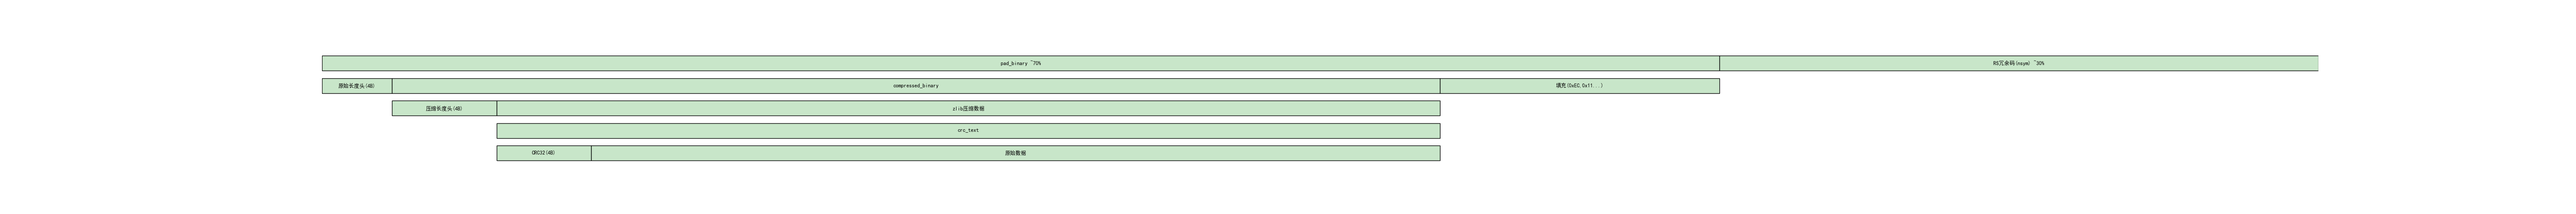
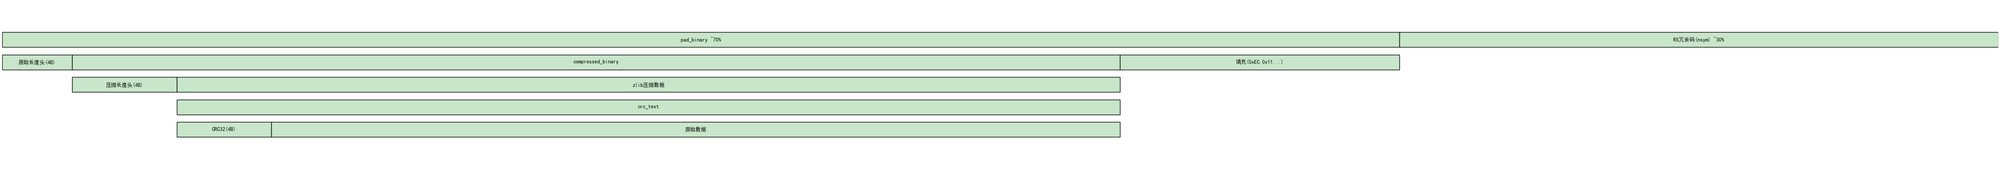
[Feat] refine experiment file

Changed region(s): [[0.0, 0.1823, 1.0, 0.8203]]

diff --git a/experiments/experiment_imgcodecs.py b/experiments/experiment_imgcodecs.py
@@ -133,11 +133,57 @@ def redundancy_heatmap(codec: BaseCodec, text: str):
     plt.tight_layout()
     plt.show()
 
+# 递归绘制分段
+def draw_segments_ratio(ax, segments, y=0, x_start=0, x_end=1):
+    total_ratio = sum(r for _, r, _ in segments)
+    cur_x = x_start
+    for label, ratio, subseg in segments:
+        width = (x_end - x_start) * (ratio / total_ratio)
+        ax.add_patch(plt.Rectangle((cur_x, y), width, 0.1,
+                                   facecolor="#c8e6c9", edgecolor="black"))
+        ax.text(cur_x + width/2, y + 0.05, label, ha="center", va="center", fontsize=9)
+        if subseg:
+            draw_segments_ratio(ax, subseg, y - 0.15, cur_x, cur_x + width)
+        cur_x += width
+
+def plot_segments_ratio():
+    # 按比例绘制（pad_binary : rs冗余 = 70% : 30%）
+    segments_ratio = [
+        ("pad_binary ~70%", 0.7, [
+            ("原始长度头(4B)", 0.05, None),
+            ("compressed_binary", 0.75, [
+                ("压缩长度头(4B)", 0.1, None),
+                ("zlib压缩数据", 0.9, [
+                    ("crc_text", 1.0, [
+                        ("CRC32(4B)", 0.1, None),
+                        ("原始数据", 0.9, None)
+                    ])
+                ])
+            ]),
+            ("填充(0xEC,0x11...)", 0.2, None)
+        ]),
+        ("RS冗余码(nsym) ~30%", 0.3, None)
+    ]
+    # 设置字体为SimHei（黑体）
+    plt.rcParams['font.sans-serif'] = ['SimHei']
+    # 解决坐标轴负号显示问题
+    plt.rcParams['axes.unicode_minus'] = False
+
+    fig, ax = plt.subplots(figsize=(60, 5))
+    draw_segments_ratio(ax, segments_ratio, y=0, x_start=0, x_end=1)
+    ax.set_xlim(0, 1)
+    ax.set_ylim(-0.8, 0.3)
+    ax.axis("off")
+    # plt.show()
+
+    # 保存图片
+    plt.savefig("img/rs_binary_segments_ratio.png", bbox_inches="tight", pad_inches=0.05)
 
 if __name__ == "__main__":
     codec = CODEC_REGISTRY["morandi_rs"] # morandi_rs rgba_redundancy
     codec.show_progress = False
     text = "Hello World! " * int(1e3)  # 足够长的测试文本(1e3, 4e5)
 
-    redundancy_heatmap(codec, text)
+    # redundancy_heatmap(codec, text)
+    plot_segments_ratio()
     

diff --git a/experiments/experiment_NumberUtils.py b/experiments/experiment_NumberUtils.py
@@ -1,0 +1,14 @@
+from celestialvault.tools.NumberUtils import choose_square_container, redundancy_from_container
+from celestialvault.tools.SampleGenerate import rand_strict_increasing_ints
+
+
+def evaulate_choose_square_container():
+    for n in rand_strict_increasing_ints(100, start=5, max_step=20):
+        a, b, c  = choose_square_container(n, 0.7)
+        test_c = redundancy_from_container(a*a, 0.7)
+        print(f"n={n} -> 容器{a}, {b}, {c}, 利用率={n/a**2:.2%}")
+        assert c == test_c
+
+
+if __name__ == '__main__':
+    evaulate_choose_square_container()

diff --git a/src/celestialvault/instances/inst_quiz.py b/src/celestialvault/instances/inst_quiz.py
@@ -7,6 +7,7 @@ from IPython.display import clear_output, display
 
 from .inst_symmetric import SymmetricMap
 
+
 class QuizBase:
     """通用测验UI框架"""
     def __init__(self, title="测验", input_type="text"):
